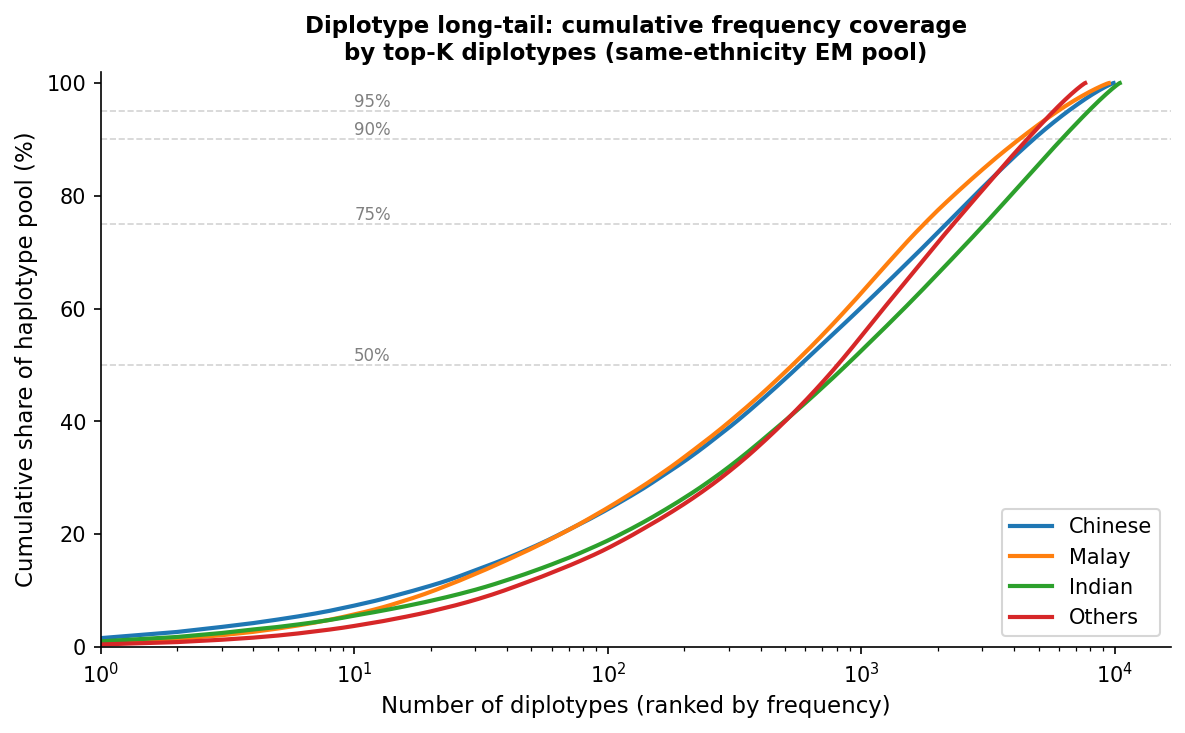
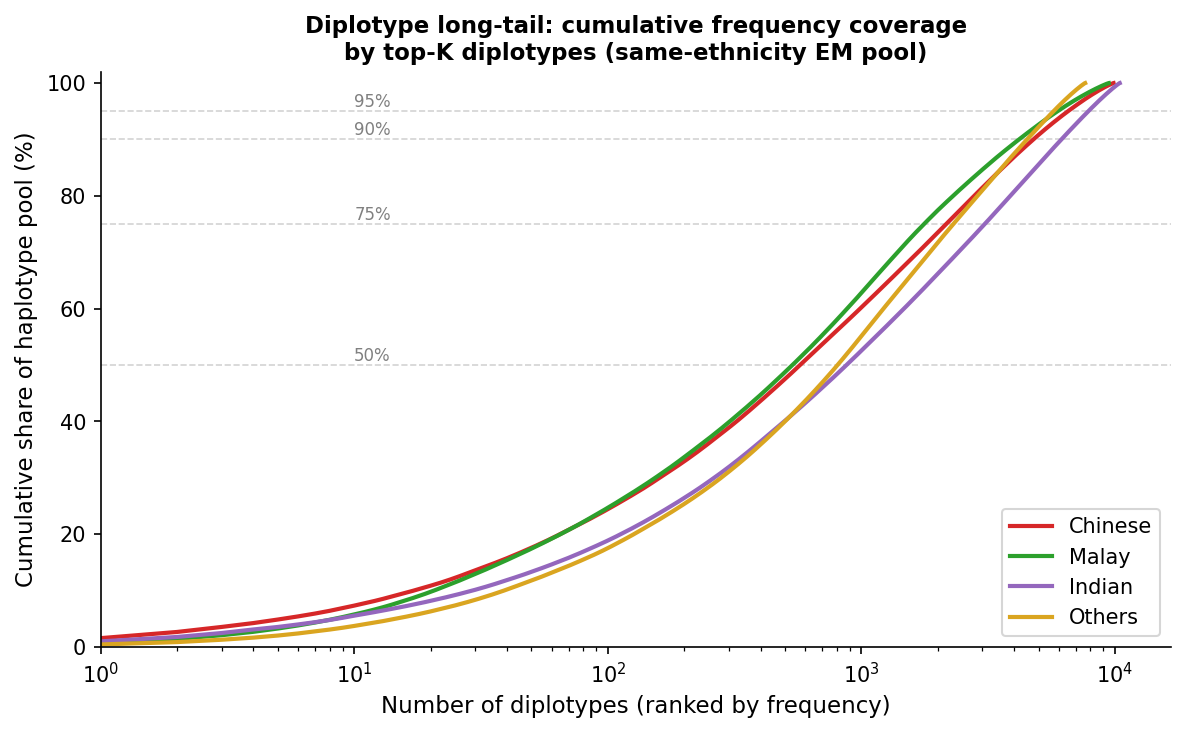
style: update CMIO ethnicity colours (Chinese=red, Malay=green, Indian=purple, Others=gold)
Regenerate diplotype_longtail.png and registry_targets_bar.png with new palette.

diff --git a/analysis/08_section_plots.py b/analysis/08_section_plots.py
@@ -22,8 +22,8 @@ FIG_DIR  = os.path.join(HERE, 'figures')
 os.makedirs(FIG_DIR, exist_ok=True)
 
 ETHNICITIES = ['Chinese', 'Malay', 'Indian', 'Others']
-COLORS = {'Chinese': '#1f77b4', 'Malay': '#ff7f0e',
-          'Indian': '#2ca02c', 'Others': '#d62728'}
+COLORS = {'Chinese': '#d62728', 'Malay': '#2ca02c',
+          'Indian': '#9467bd', 'Others': '#DAA520'}
 
 
 # ---------------------------------------------------------------------------
